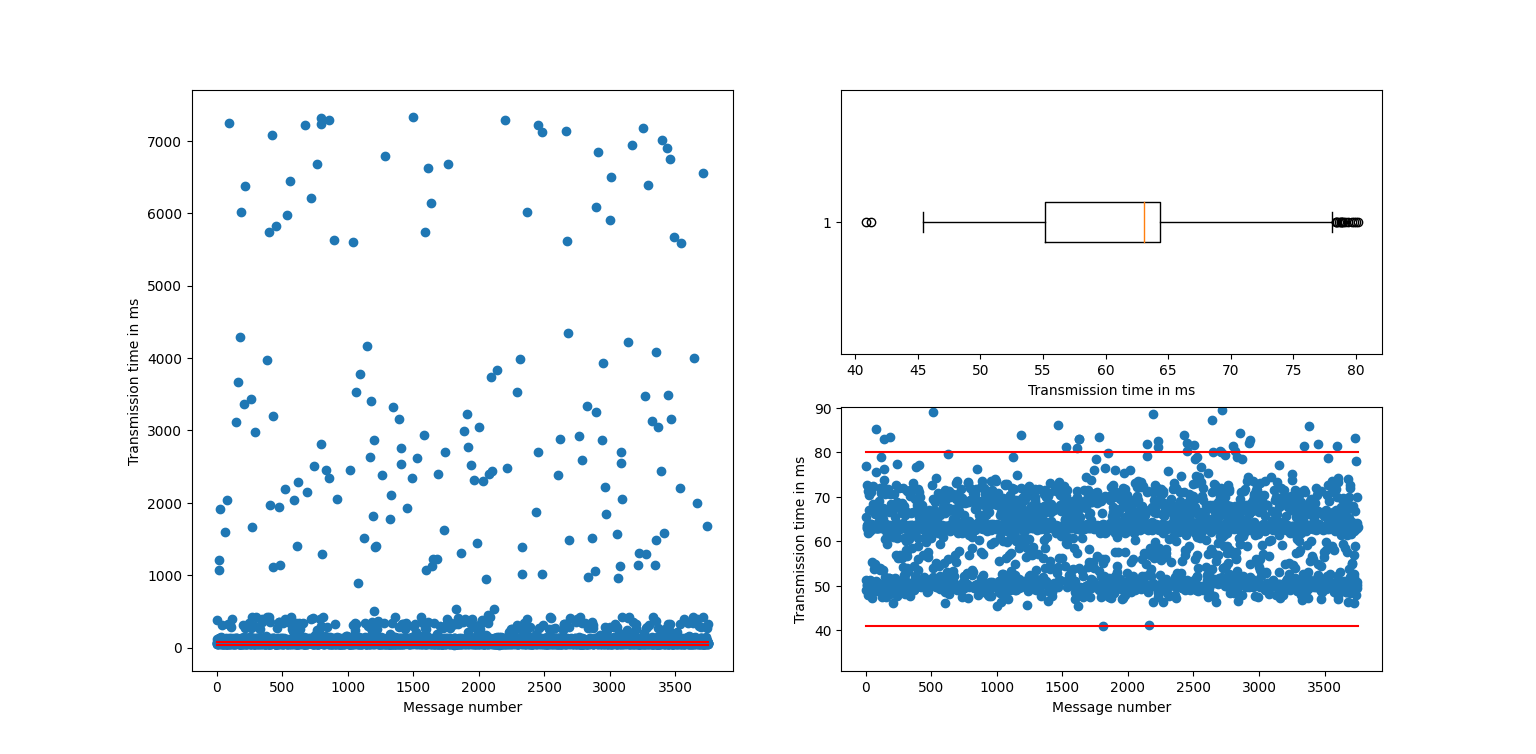
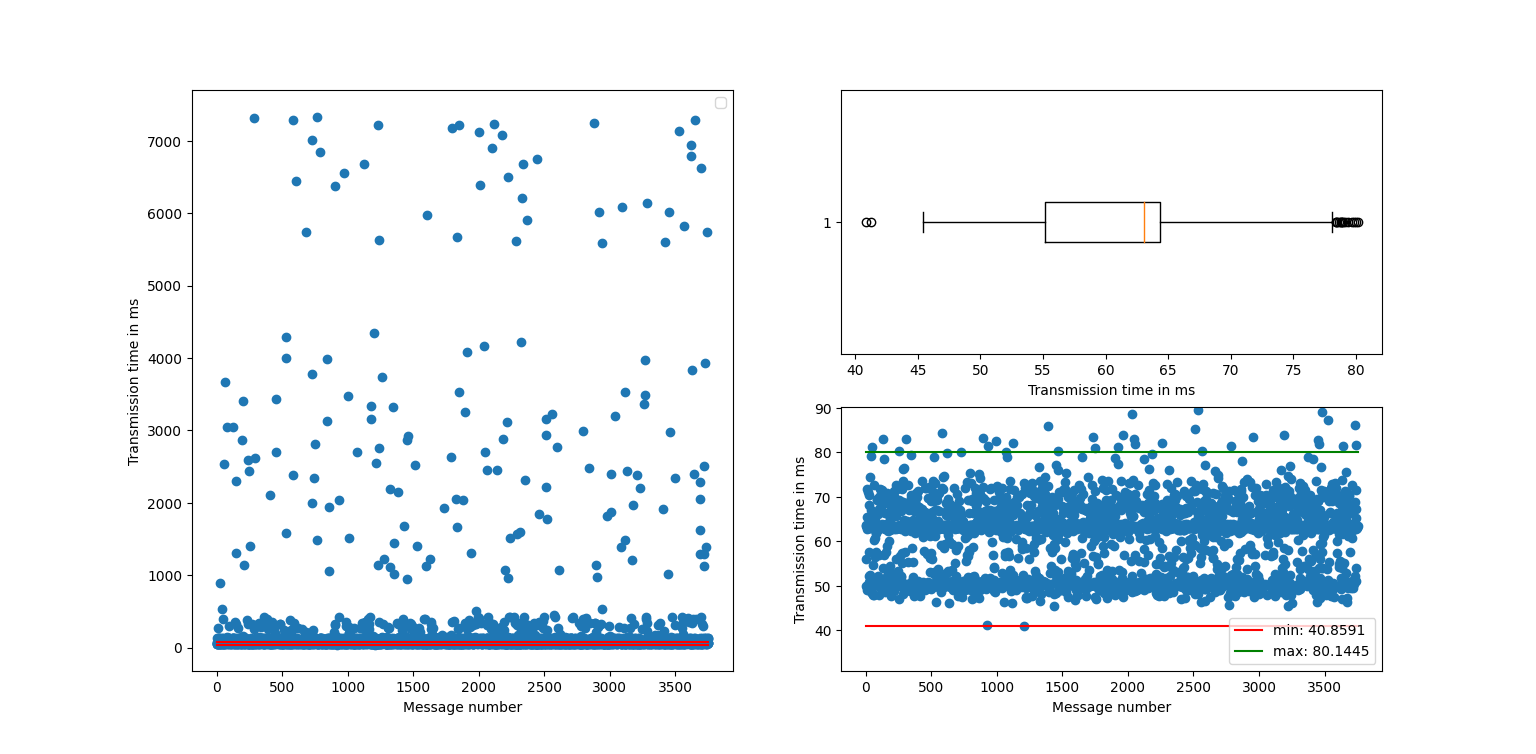
ploooot

diff --git a/log_files/plot.py b/log_files/plot.py
@@ -72,7 +72,7 @@ shuffle(ts_times_a)
 
 
 plt.subplot(2, 2, 2)
-plt.boxplot(ts_times, vert=False, meanline=True)
+plt.boxplot(ts_times_a, vert=False, meanline=True)
 plt.xlabel("Transmission time in ms")
 plt.ylabel("")
 
@@ -84,9 +84,10 @@ plt.xlabel("Message number")
 plt.ylabel("Transmission time in ms")
 plt.ylim(min(ts_times_a)-10, max(ts_times_a)+10)
 # draw box around the 75% of the data
-plt.plot([0, len(ts_times)], [min(ts_times_a), min(ts_times_a)], color="red")
-plt.plot([0, len(ts_times)], [max(ts_times_a), max(ts_times_a)], color="red")
-
+plt.plot([0, len(ts_times)], [min(ts_times_a), min(ts_times_a)], color="red", label=f'min: {min(ts_times_a)}')
+plt.plot([0, len(ts_times)], [max(ts_times_a), max(ts_times_a)], color="green", label=f'max: {max(ts_times_a)}')
+# place legens bottom right
+plt.legend(loc='lower right')
 
 plt.subplot(1, 2, 1)
 plt.plot(ts_times, 'o')
@@ -98,6 +99,8 @@ plt.plot([0, len(ts_times)], [max(ts_times_a), max(ts_times_a)], color="red")
 
 
 
+
+plt.legend()
 plt.show()
 # # shuffle the data
 # shuffle(ts_times)
